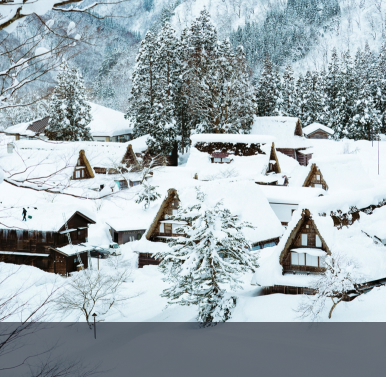
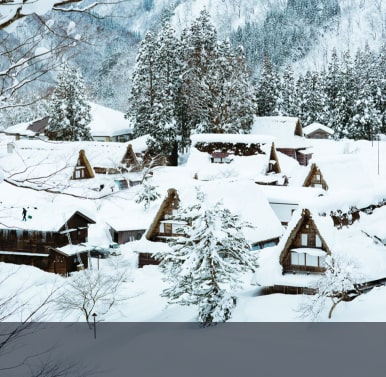
optimize img

Changed region(s): [[0.7772, 0.5544, 0.8083, 0.5836], [0.4041, 0.6711, 0.4352, 0.7003], [0.1554, 0.5836, 0.1865, 0.6127]]

diff --git a/index.html b/index.html
@@ -11,7 +11,7 @@
       rel="stylesheet"
     />
     <link rel="stylesheet" href="css/style.css" />
-    <title>Document</title>
+    <title>Discover Japan</title>
   </head>
 
   <body>
